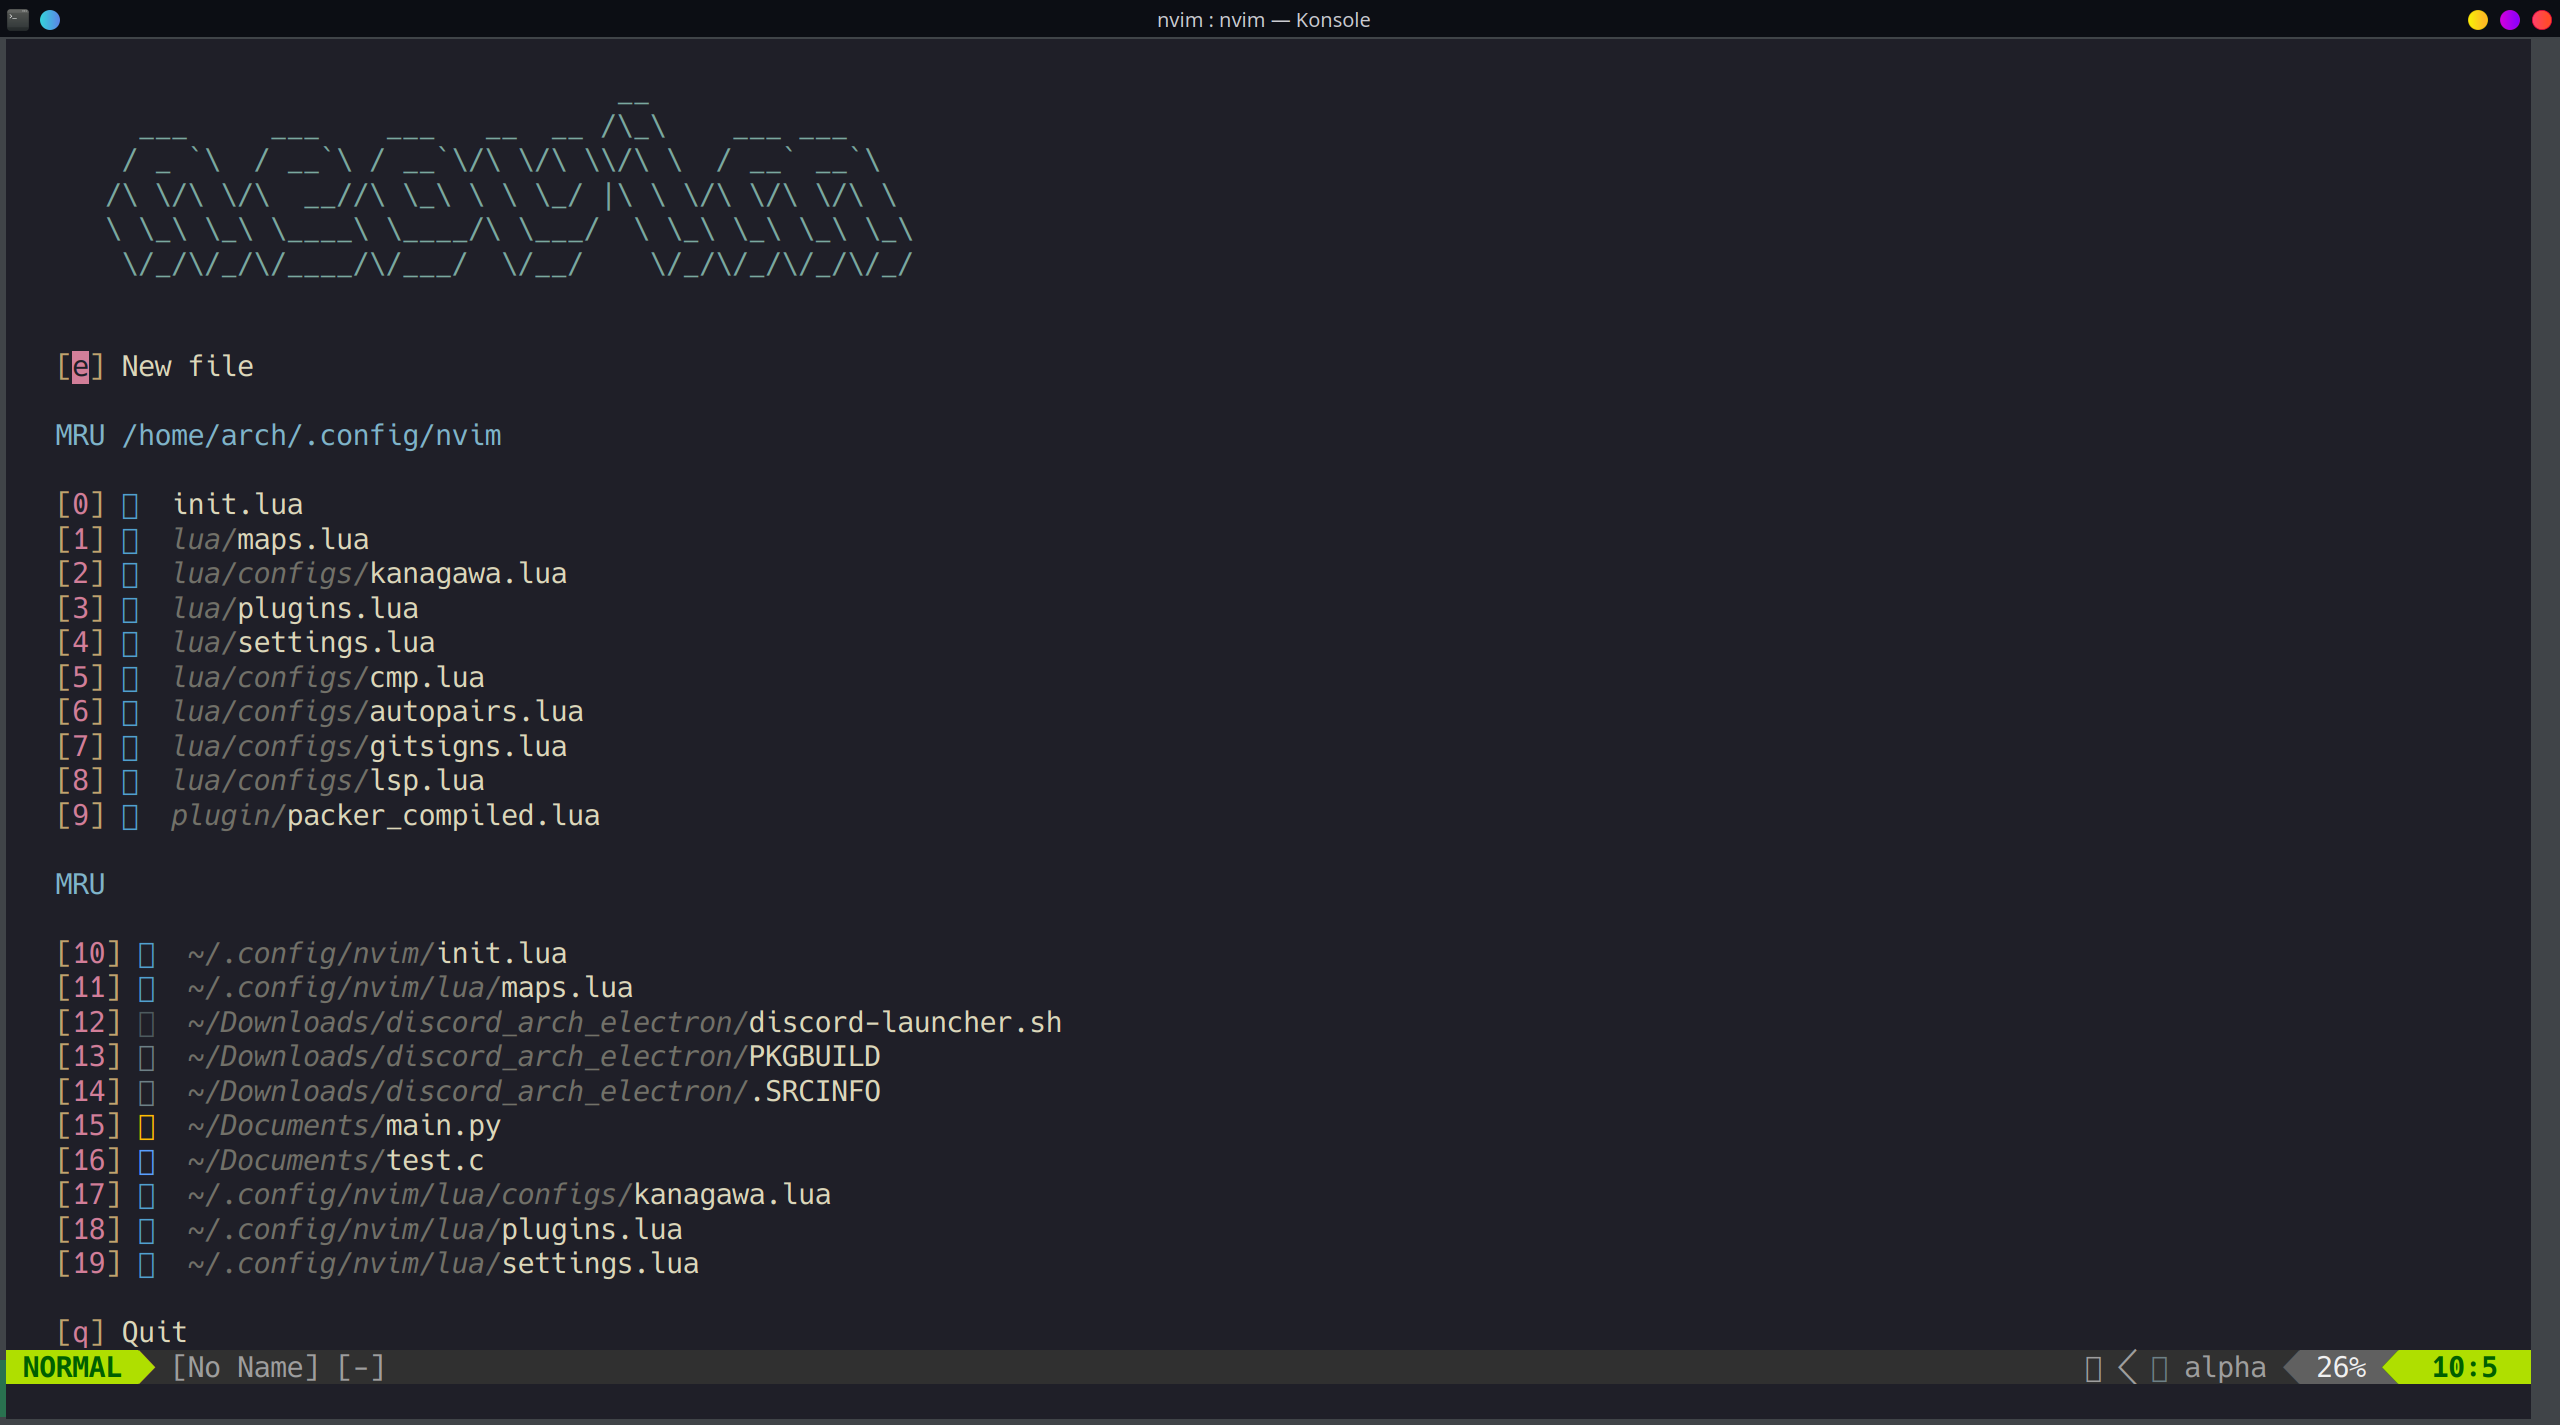
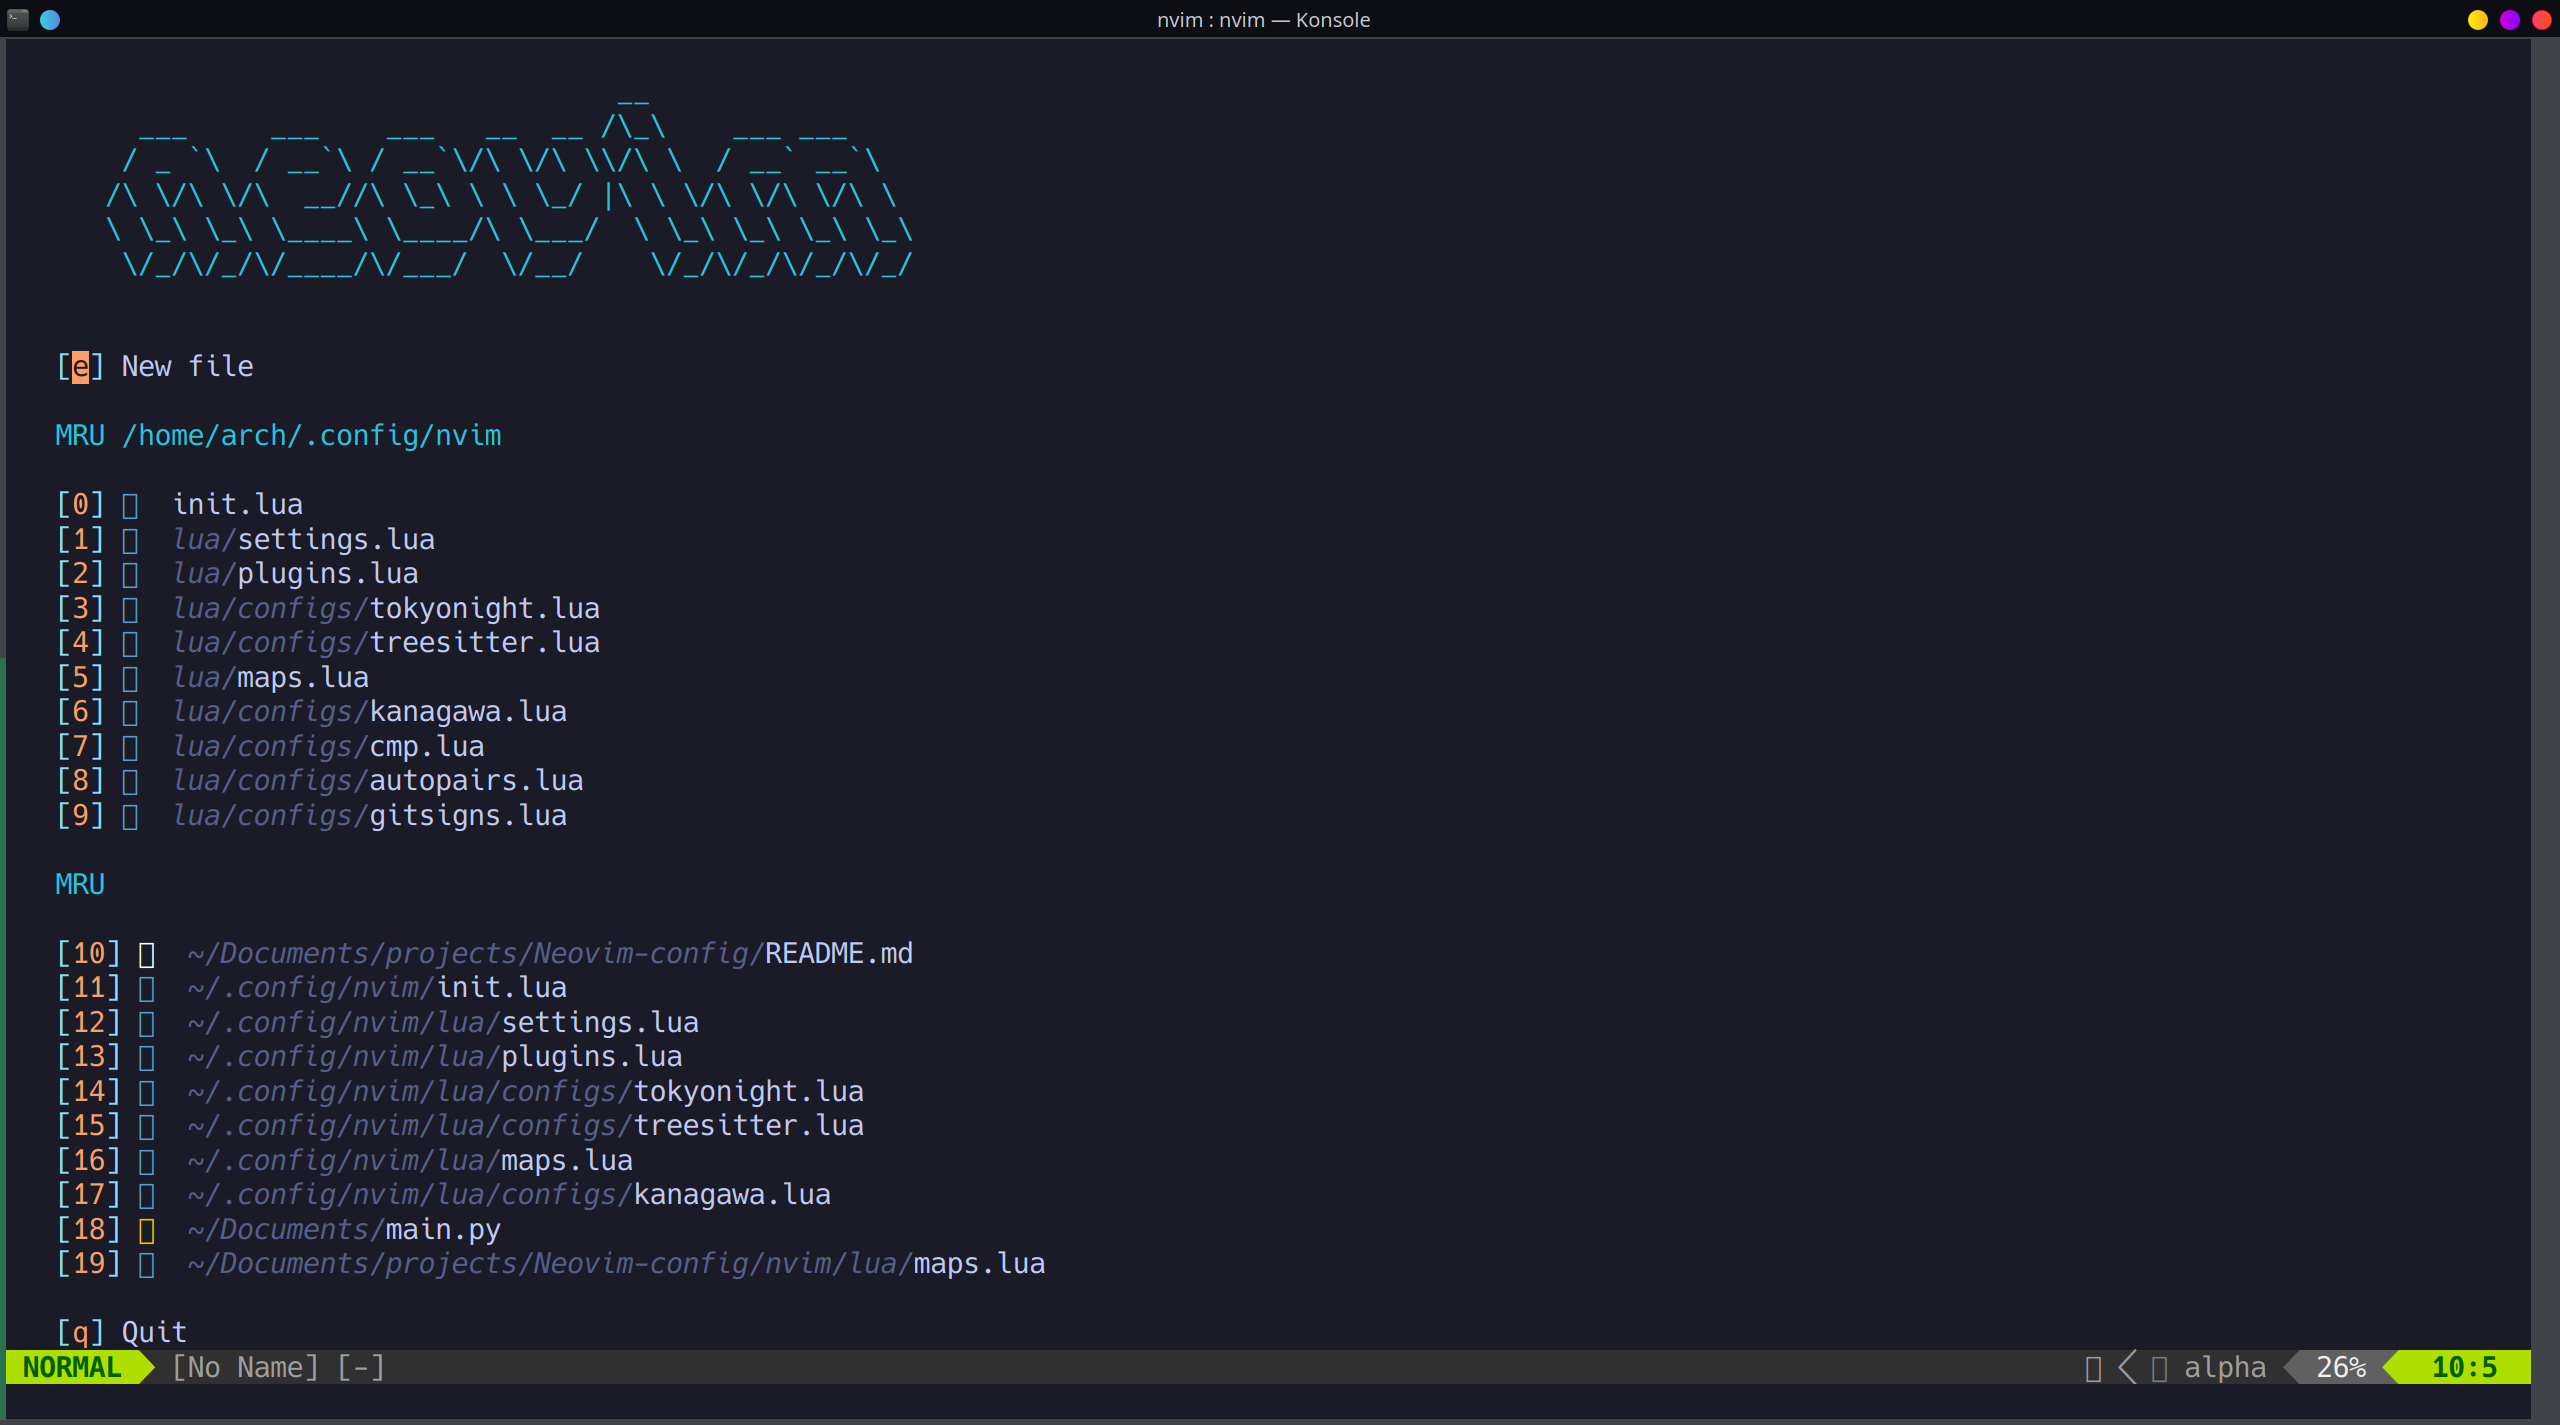
adding a new colorsheme (tokyonight)

diff --git a/README.md b/README.md
@@ -1,7 +1,7 @@
 # Neovim config files
 This is my current neovim config with some cool features such as :
  - Autocomplete
- - Theme color (Kanagawa)
+ - Theme color (Kanagawa, tokyonight)
  - Devicons
  - Custom map keybindes 
  - Neotree
